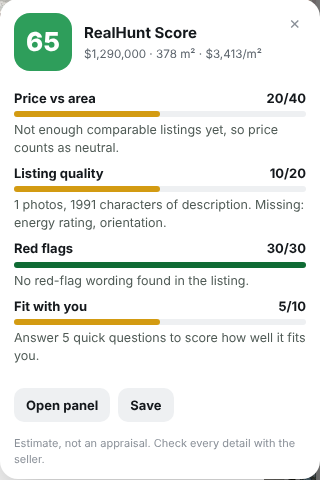
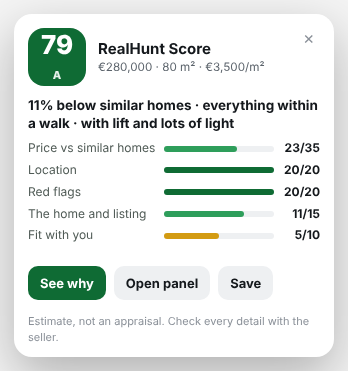
RealHunt Score v0.2: location, comparables nearby, verdict line; page and privacy updated

diff --git a/src/community/extension.tsx b/src/community/extension.tsx
@@ -18,7 +18,7 @@ export function ExtensionPage() {
       <section className="xs-hero">
         <span className="hunt-eyebrow">{t("FREE CHROME EXTENSION")}</span>
         <h1>{t("See the score of any home, on any listing.")}</h1>
-        <p>{t("Install RealHunt Score and every home on idealista, Zillow and Rightmove gets a 0–100 score next to its price: price against the area, how complete the listing is and red flags like occupied, auction or needs renovation. With the reason for every point.")}</p>
+        <p>{t("Install RealHunt Score and every home on idealista, Zillow and Rightmove gets a 0–100 score next to its price: price against similar homes nearby, what's within a walk, red flags like occupied, auction or needs renovation, and what the home really has. One honest line, and the reason for every point.")}</p>
         <div className="xs-cta">
           {STORE
             ? <a className="hunt-primary" href={STORE} target="_blank" rel="noopener" onClick={() => track("ExtensionInstall")}>{t("Add to Chrome, free")}</a>
@@ -31,11 +31,12 @@ export function ExtensionPage() {
       <section className="xs-show">
         <img src="/extension/card.png" alt={t("RealHunt Score card on a listing")} loading="lazy" />
         <div>
-          <h2>{t("Four things, every time")}</h2>
+          <h2>{t("Five things, every time")}</h2>
           <ol className="xs-list">
-            <li><b>{t("Price vs area")}</b> <span>{t("Price per m² against the other homes in the same area.")}</span></li>
-            <li><b>{t("Listing quality")}</b> <span>{t("Photos, description and the facts that are missing: floor, energy rating, orientation, fees.")}</span></li>
+            <li><b>{t("Price vs similar homes")}</b> <span>{t("Price per m² against similar-size homes within 1 to 5 km. Every search you make adds comparables.")}</span></li>
+            <li><b>{t("Location")}</b> <span>{t("Transport, food shops, schools, pharmacies, parks and beach within a 10-minute walk, from OpenStreetMap.")}</span></li>
             <li><b>{t("Red flags")}</b> <span>{t("Occupied, auction, bare ownership, needs renovation, cash only, months on the market.")}</span></li>
+            <li><b>{t("The home and the listing")}</b> <span>{t("Terrace, lift, parking, pool, views, renovated, plus the facts the listing leaves out.")}</span></li>
             <li><b>{t("Fit with you")}</b> <span>{t("Answer 5 questions and the score also tells you if it fits your budget and plans.")}</span></li>
           </ol>
           <p className="hunt-fine">{t("An estimate, not an appraisal. Sponsored homes never change a score.")}</p>
@@ -70,17 +71,20 @@ export function ExtensionPrivacy() {
   return (
     <div className="hunt-wrap hunt-legal xs-legal">
       <h1>RealHunt Score — Privacy policy</h1>
-      <p className="hunt-fine">Last updated: 8 October 2026 · Controller: Equinox Investment Group LLC, 30 N Gould St Ste N, Sheridan, WY 82801, USA · Contact: carlos@equinoxinvestmentgroup.com</p>
+      <p className="hunt-fine">Last updated: 9 October 2026 · Controller: Equinox Investment Group LLC, 30 N Gould St Ste N, Sheridan, WY 82801, USA · Contact: carlos@equinoxinvestmentgroup.com</p>
       <h2>What the extension does</h2>
       <p>RealHunt Score shows an estimated 0–100 score on property listings on supported property websites (idealista, Zillow, Rightmove). It runs only on those websites and on nothing else you browse.</p>
       <h2>What we collect, and only after you agree</h2>
       <ul>
+        <li><b>Comparable homes on your computer:</b> the price, size, price per m², area and map point of the homes on search pages you open are kept in your browser to compare listings. They leave your browser only after you agree (next point).</li>
         <li><b>Derived listing data:</b> price, currency, size, price per m², rooms, property type, area name, days listed, the score and red-flag labels, the listing URL and a hashed listing ID. We do not collect or store photos or full descriptions from the website.</li>
         <li><b>Your profile, if you answer it:</b> budget, places, type of home, purpose and timeline.</li>
         <li><b>Your account, if you create one:</b> email and, optionally, phone, and whether you want emails from us.</li>
         <li><b>Usage events:</b> install, reports opened, saves, shares and clicks on recommendations, linked to a random ID.</li>
       </ul>
       <p>Before you agree, the score is calculated on your computer only and nothing is sent to us.</p>
+      <h2>Location check</h2>
+      <p>To count what is within a walk of a home, the extension sends that listing's published map point (never your own location) to the OpenStreetMap Overpass service (overpass-api.de, with overpass.kumi.systems as a backup). Answers are cached in your browser for 30 days.</p>
       <h2>Why</h2>
       <p>To calculate and improve scores (comparing a home's price per m² with other homes in the same area), to keep your saved homes and alerts, and to show you homes on RealHunt that match your profile. Recommendations are always labelled “RealHunt pick” or “Sponsored” and never change any score. Legal basis: your consent (GDPR art. 6(1)(a)).</p>
       <h2>What we never do</h2>
